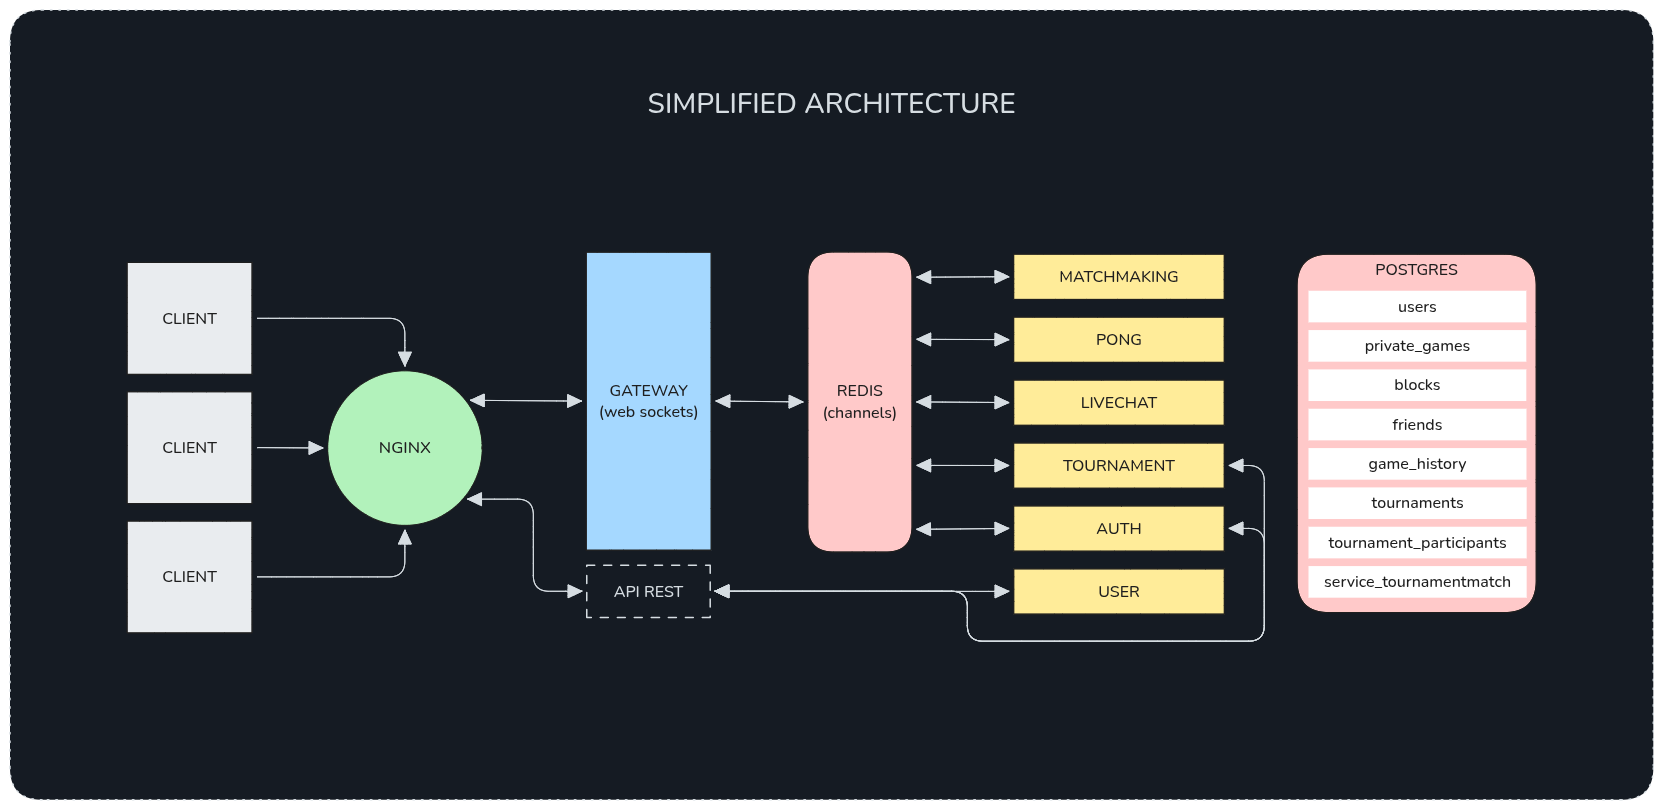
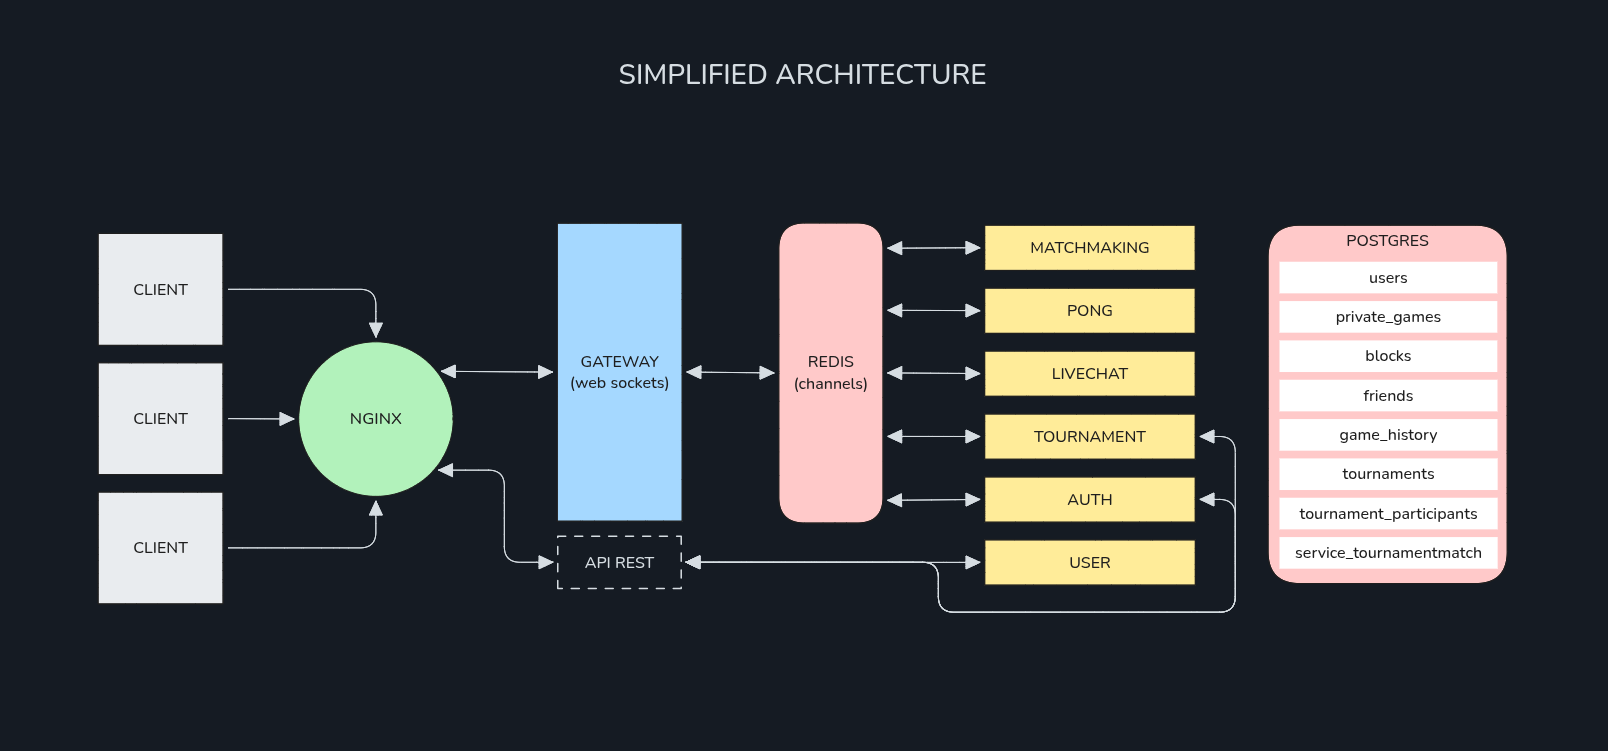
archi image

Changed region(s): [[0.0622, 0.2756, 0.9639, 0.8269], [0.0, 0.0, 1.0, 1.0], [0.3731, 0.0613, 0.6219, 0.1531]]

diff --git a/README.md b/README.md
@@ -23,6 +23,8 @@ ft_transcendence is a 3D Pong game with an elegant multiplayer interface. The pr
 
 ft_transcendence is designed as a modern, real-time 3D Pong game where players can compete both locally and remotely. The game offers advanced multiplayer features such as live chat, tournament matchmaking, and even an AI opponent. The backend is developed using Django (with Django Channels for real-time communications) and is split into multiple microservices, while the frontend leverages Vanilla JavaScript, Three.js/OpenGL, and Bootstrap for a responsive and visually engaging experience.
 
+![architecture](media/architecture.png)
+
 ---
 
 ## Key Features
